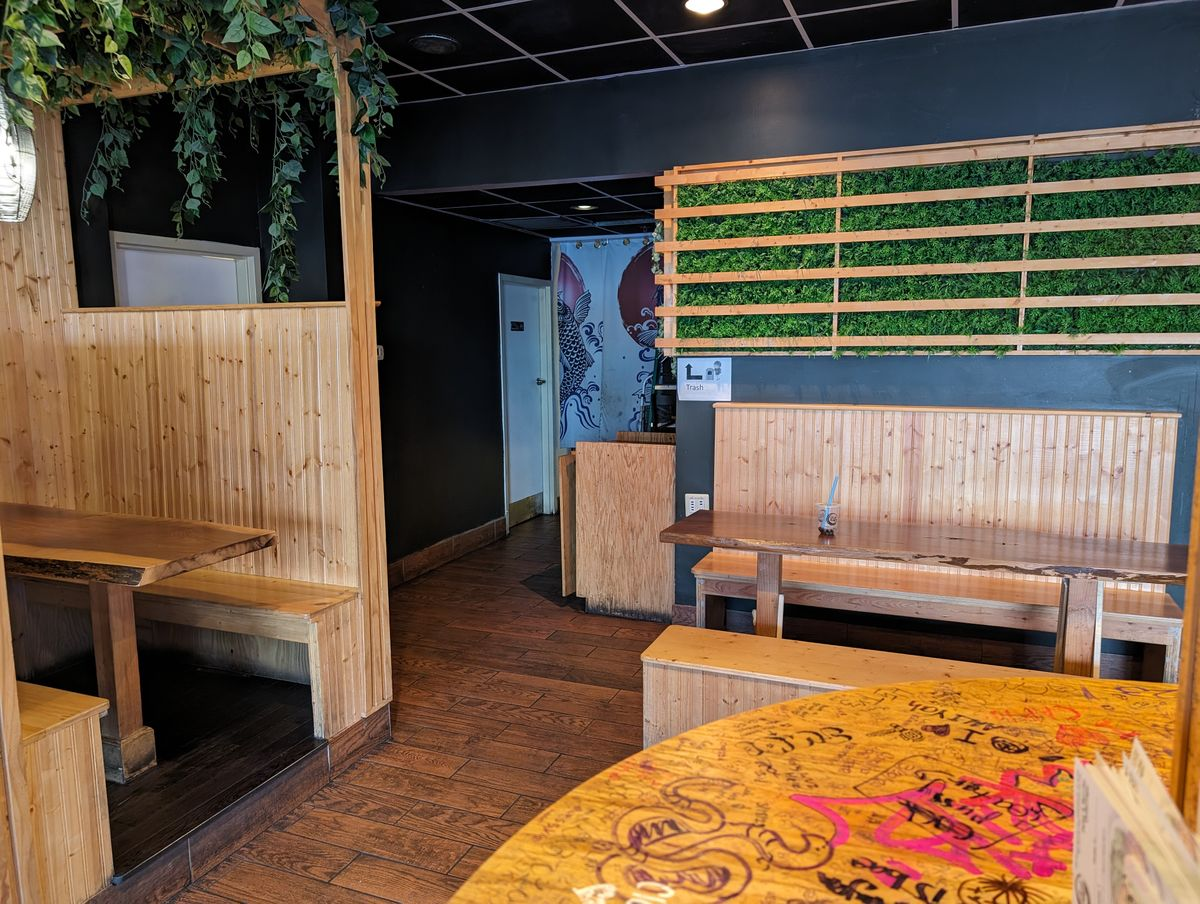
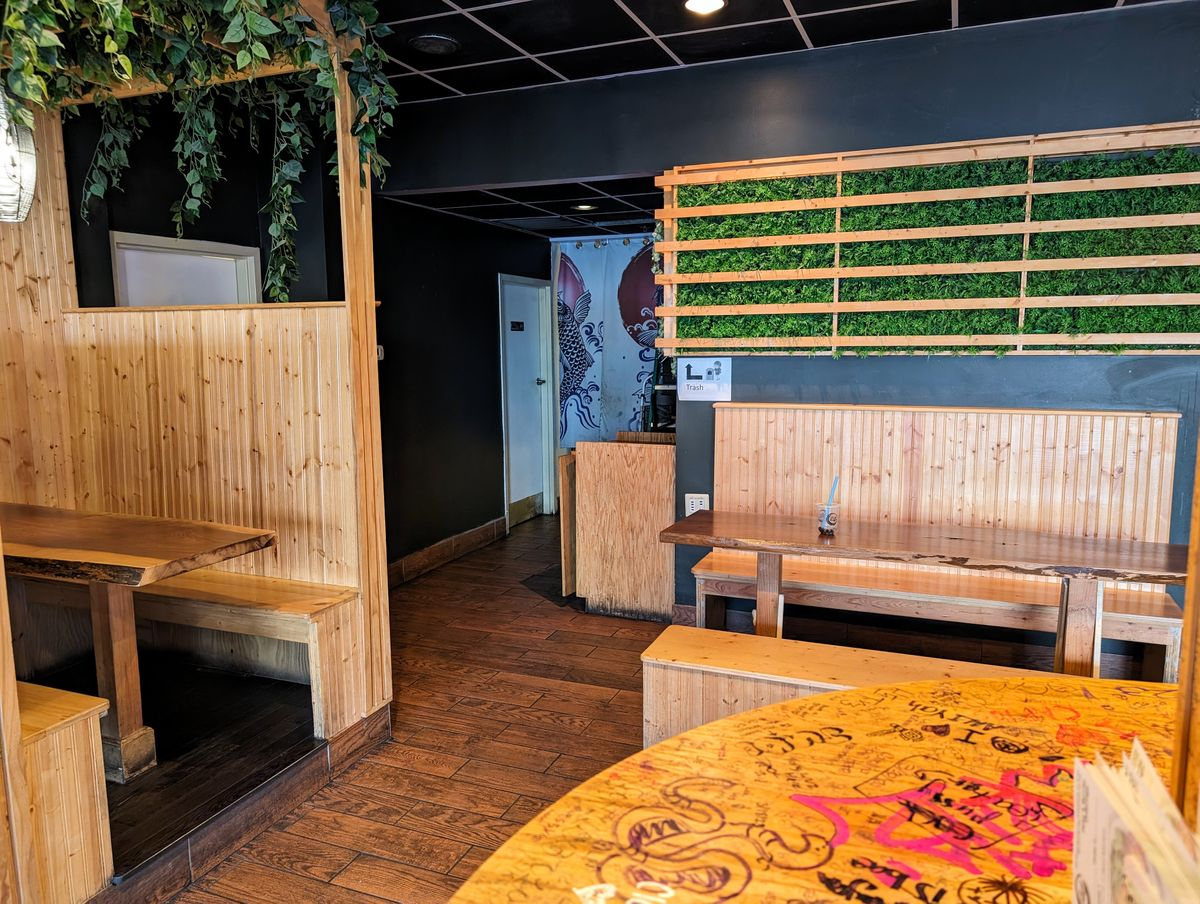
feat(indianapolis): edit moar tea summary / images
- add a short summary for moar tea
- add new default image (was too tired to add last night)
- edit images to improve clarity
- add `updated` and `time_limit` attributes (these are undocumented in
  the readme, but seen in the [latest commit](https://github.com/pqvst/cafeandcowork/commit/e1c45fb550e079dd5e0e9baa3809c9358dcdf2f0))

diff --git a/data/indianapolis/moar-tea.md b/data/indianapolis/moar-tea.md
@@ -2,6 +2,7 @@
 contributors:
   - https://lewx.dev
 added: 2024-05-09
+updated: 2024-05-22
 name: Moar Tea
 type: Cafe
 area: Mass Ave
@@ -17,6 +18,7 @@ hours:
   thu: 11:30-22:30
   fri: 11:30-23:30
   sat: 11:30-23:30
+time_limit: false
 wifi: 4
 speed: 47
 power: 4
@@ -40,5 +42,8 @@ telephone: "+13177371897"
 images:
   - interior1.jpg
   - interior2.jpg
+  - interior3.jpg
   - exterior.jpg
 ---
+
+Open late every night, this popular boba tea shop on Mass Ave is a great spot for late-night co-working. Whether you're wrapping up office work or diving into a new project, you'll appreciate their extensive drink menu and tasty bites (don't miss the onigiri!)
